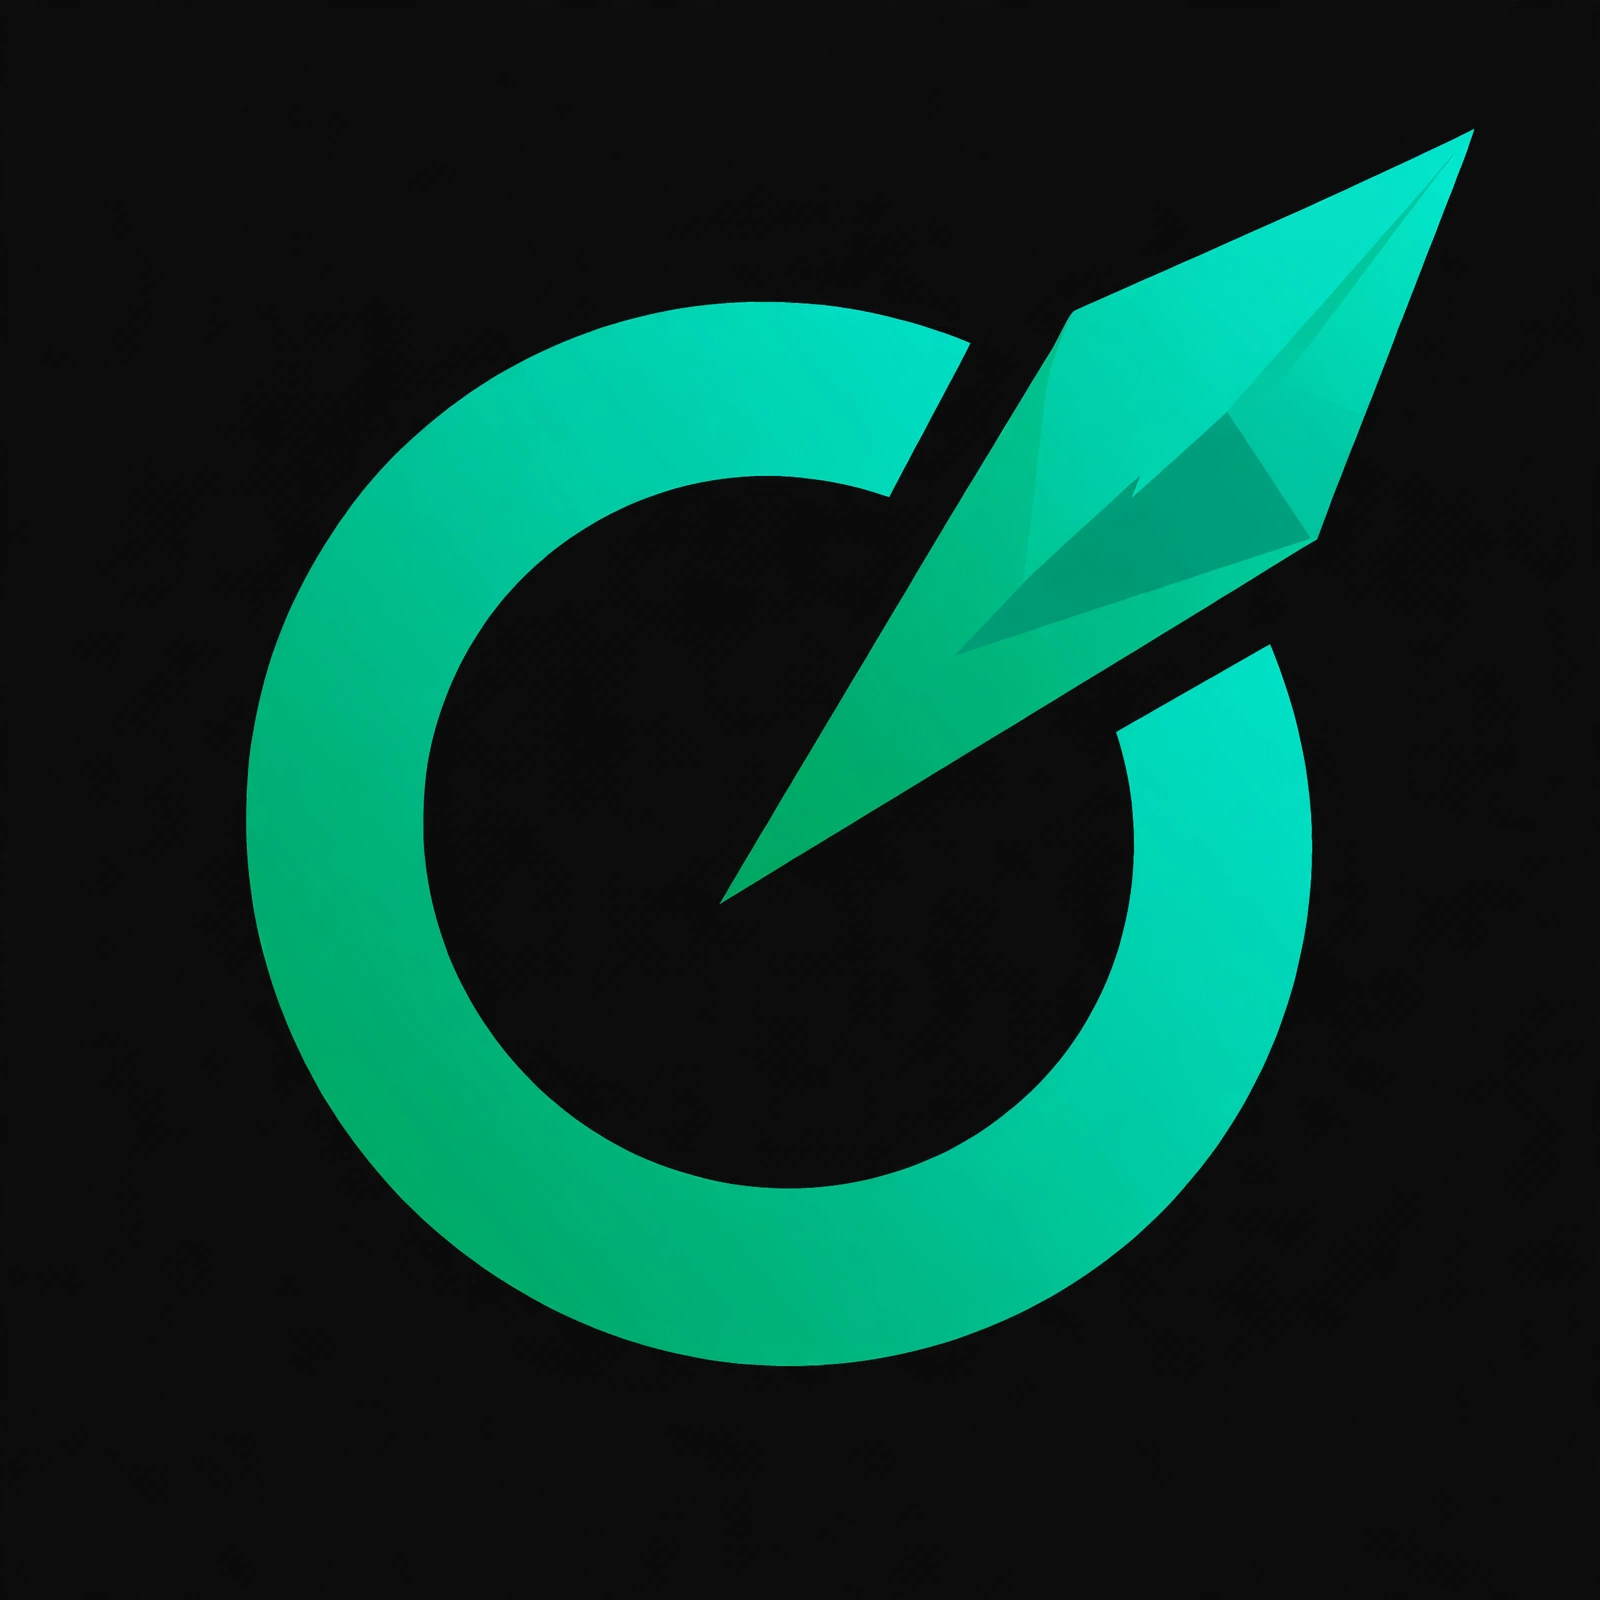
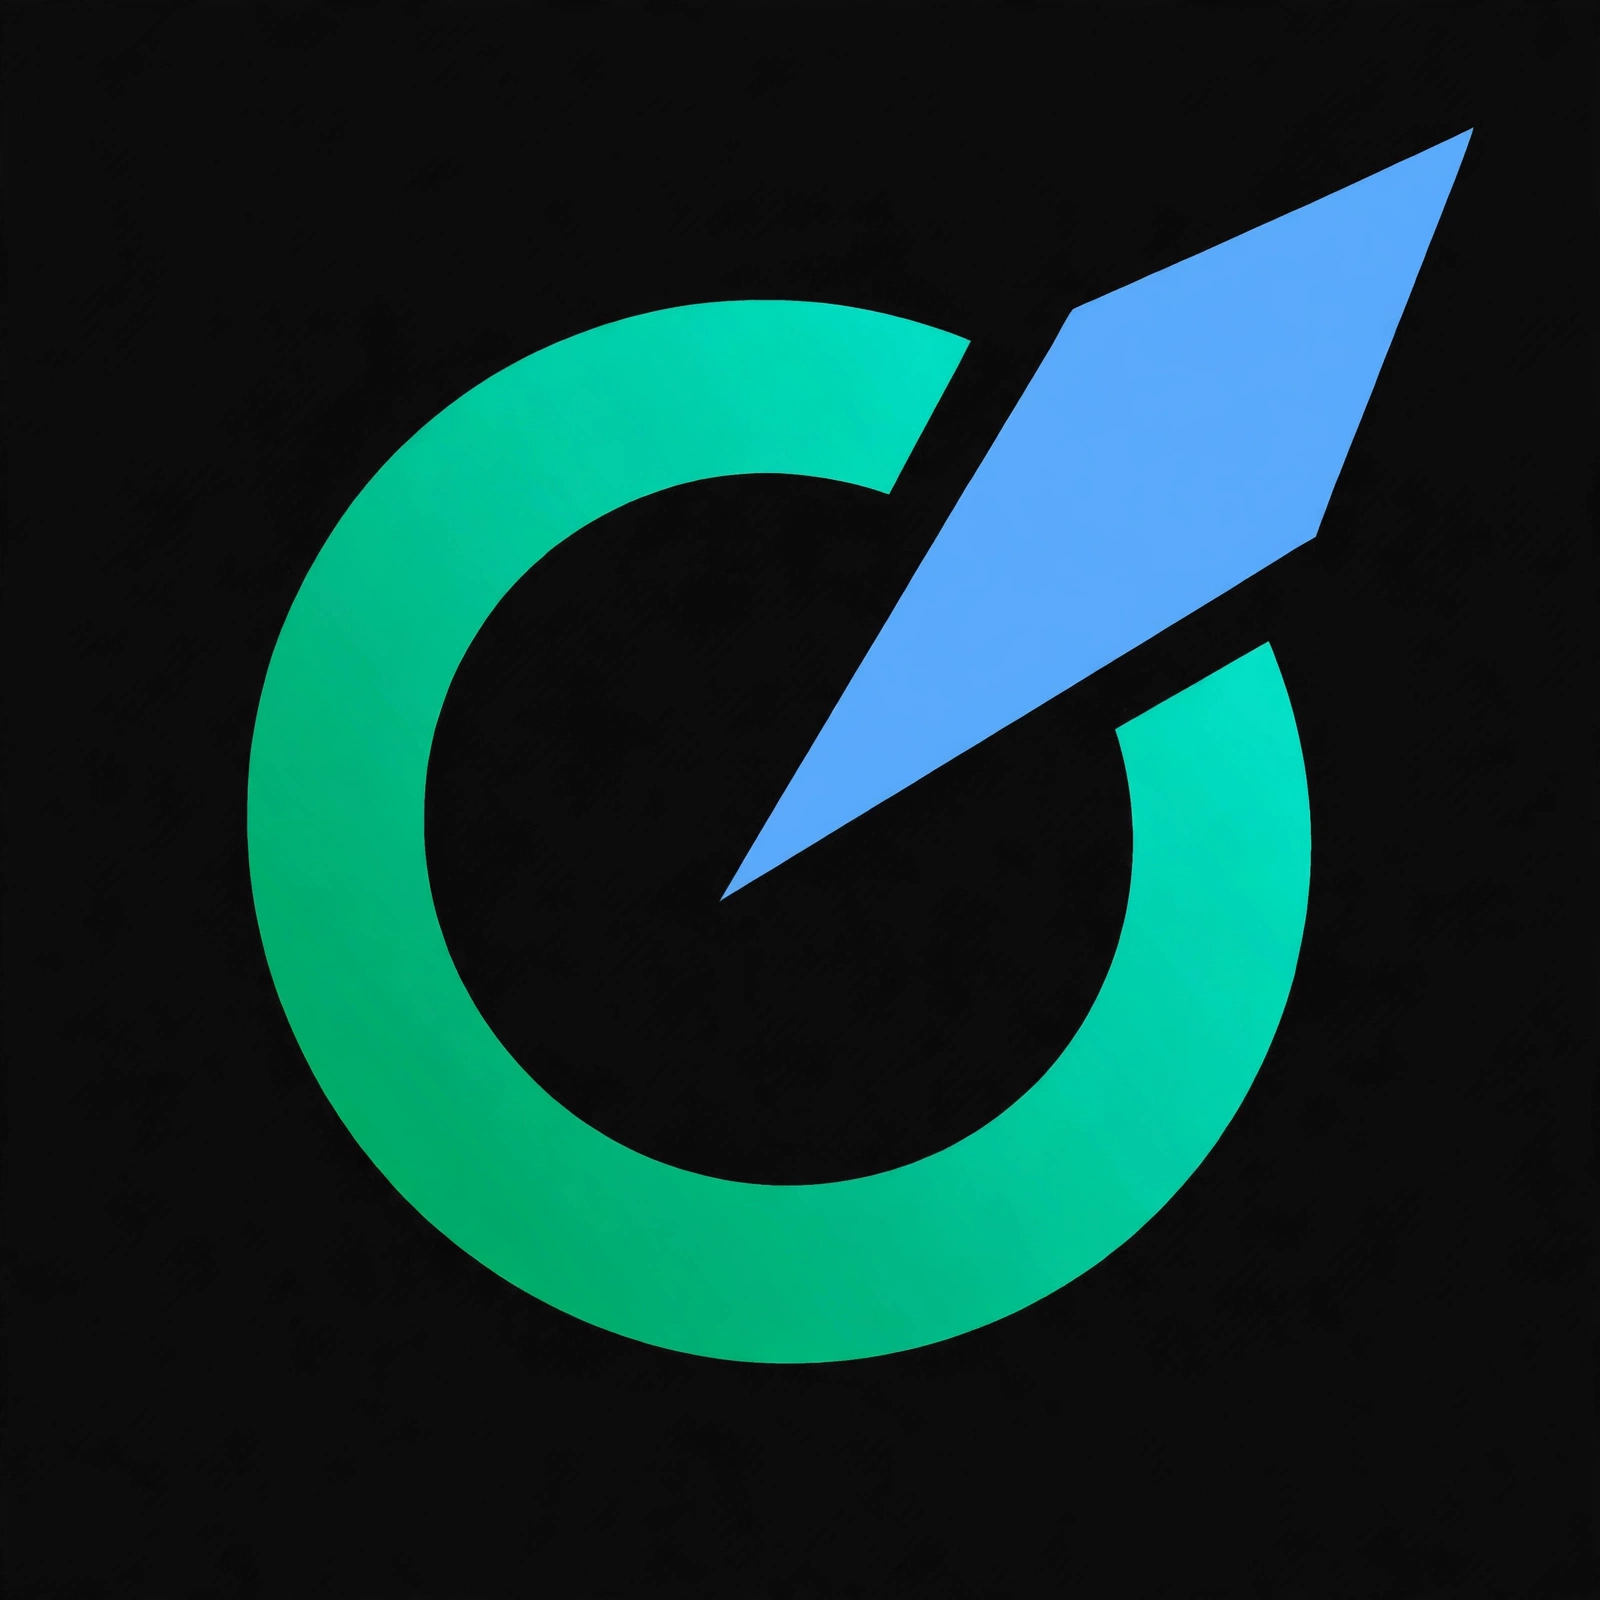
docs: Unleashed spec v1.2 — Vercel mark corrected to Sky accent (owner, 2026-11-02)
The first commit filed the master-gradient mark for Vercel Unleashed; per the owner correction, that mark is the product line identity. This commit files the Sky #5FA8FF product mark and the corrected spec/header.

diff --git a/docs/UNLEASHED-BRAND-SPEC.md b/docs/UNLEASHED-BRAND-SPEC.md
@@ -1,12 +1,14 @@
-> **Filed copy — Robinson-AI-Systems/vercel-mcp.** This repo's product is **Vercel Unleashed**, claimed accent **Master gradient (emerald → teal, same as ring)**, app/product slug `vercel-unleashed` (claim filed 2026-11-02 in the Library registry).
+> **Filed copy — Robinson-AI-Systems/vercel-mcp.** This repo's product is **Vercel Unleashed**, claimed accent **Sky `#5FA8FF`**, app/product slug `vercel-unleashed` (claim filed 2026-11-02 in the Library registry).
 >
-> **Canonical claims record:** the Library registry — `designs/unleashed-claims-registry.md` (living design D-005) in Robinson-AI-Systems/library — is the one record of claimed Unleashed names, accents, and slugs. The accent table in §3 below is a v1.0 snapshot; if it and the registry ever disagree, the registry wins. This repo's mark: `docs/unleashed-vercel.png`.
+> **Canonical claims record:** the Library registry — `designs/unleashed-claims-registry.md` (living design D-005) in Robinson-AI-Systems/library — is the one record of claimed Unleashed names, accents, and slugs. The accent table in §3 below is a snapshot; if it and the registry ever disagree, the registry wins. This repo's mark: `docs/unleashed-vercel.png`.
 
-# Unleashed Brand Spec — v1.1 (2026-11-02)
+# Unleashed Brand Spec — v1.2 (2026-11-02)
 
-*v1.1: the Library claims registry (D-005) adopted as the canonical record of
-accent claims; §3 and §8 updated to name it. v1.0 was the original issue, the
-same day.*
+*v1.2: owner correction, same day — the master-gradient mark is the product
+line's own identity, never a product's mark; Vercel Unleashed takes the Sky
+accent like every other product (§1, §3). v1.1: the Library claims registry
+(D-005) adopted as the canonical record of accent claims; §3 and §8 updated
+to name it. v1.0 was the original issue, the same day.*
 
 **Scope:** every Robinson AI Systems product in the "Unleashed" line —
 provider-connector MCP servers that out-power the provider's official offering
@@ -29,6 +31,11 @@ breaks out of the provider's limits.
   Unleashed at a glance.
 - The **shard** is the variable. Its flat accent color identifies the product
   (see §3). Shape and exit angle never change.
+- **The master-gradient mark is the line's own identity.** The version with
+  the shard in the master gradient (emerald → teal, same as the ring) is the
+  mark of the Unleashed product line itself — used for the line as a whole
+  (e.g. the website's Unleashed section) and **never as any single product's
+  mark**. Every product, the flagship included, carries its own flat accent.
 - The mark contains **no letters and no part of any provider's logo** — ever
   (see §6).
 
@@ -56,22 +63,24 @@ color**, and never another product's accent.
 
 | Product | Accent | Hex |
 |---|---|---|
-| Vercel Unleashed (flagship) | Master gradient (emerald → teal, same as ring) | — |
+| Vercel Unleashed | Sky | `#5FA8FF` |
 | GitHub Unleashed | Arctic | `#4DDFFF` |
 | Dokploy Unleashed | Amber | `#FFB200` |
 | Neon Unleashed | Coral | `#FF5F5F` |
 | Workspace Unleashed | Violet | `#9A7BFF` |
 
 Extended palette for future products (claim in this order): Deep `#006E56`
-is reserved for the RAS parent brand and is **not** a product accent; next
-available accents: Magenta `#E35FD0`, Gold `#D9A441`, Sky `#5FA8FF`.
+is reserved for the RAS parent brand and is **not** a product accent; Sky
+`#5FA8FF` was claimed by Vercel Unleashed on 2026-11-02, so the next
+available accents are: Magenta `#E35FD0`, then Gold `#D9A441`.
 
 **The canonical claims record is the Library registry** — `designs/
 unleashed-claims-registry.md` (living design D-005) in
 Robinson-AI-Systems/library. The table above is a snapshot of that registry
-as of v1.0 (2026-11-02); if the two ever disagree, the registry wins. Copies
+as of v1.2 (2026-11-02); if the two ever disagree, the registry wins. Copies
 of this spec in product repos never carry a competing claims table — they
-point to the registry.
+point to the registry. The registry also carries the line's own entry:
+"Unleashed (product line)" — the master-gradient mark, slug `unleashed`.
 
 **New product rule (the claim procedure, binding):** (1) read the registry
 before choosing anything; (2) take the next unclaimed accent in the extended
@@ -134,8 +143,9 @@ recolored provider triangle — caught and replaced before it shipped anywhere.
   so every product's ring geometry is pixel-identical; export PNG at 1024,
   512, 192, and 64 px from the SVG, plus a 180 px Apple-touch derivative
   where a surface needs one.
-- File naming: `unleashed-<product>-<size>.png` / `.svg`; the flagship is
-  `unleashed-vercel-*` and `unleashed-master-*` is the no-product master.
+- File naming: `unleashed-<product>-<size>.png` / `.svg` for products;
+  `unleashed-master-*` is the product line's own mark (gradient shard),
+  never filed as a product's mark.
 - A product's OAuth/app logo, favicon, connector icon, and social avatar all
   use its own accent file from this set — no per-surface improvisation.
 
